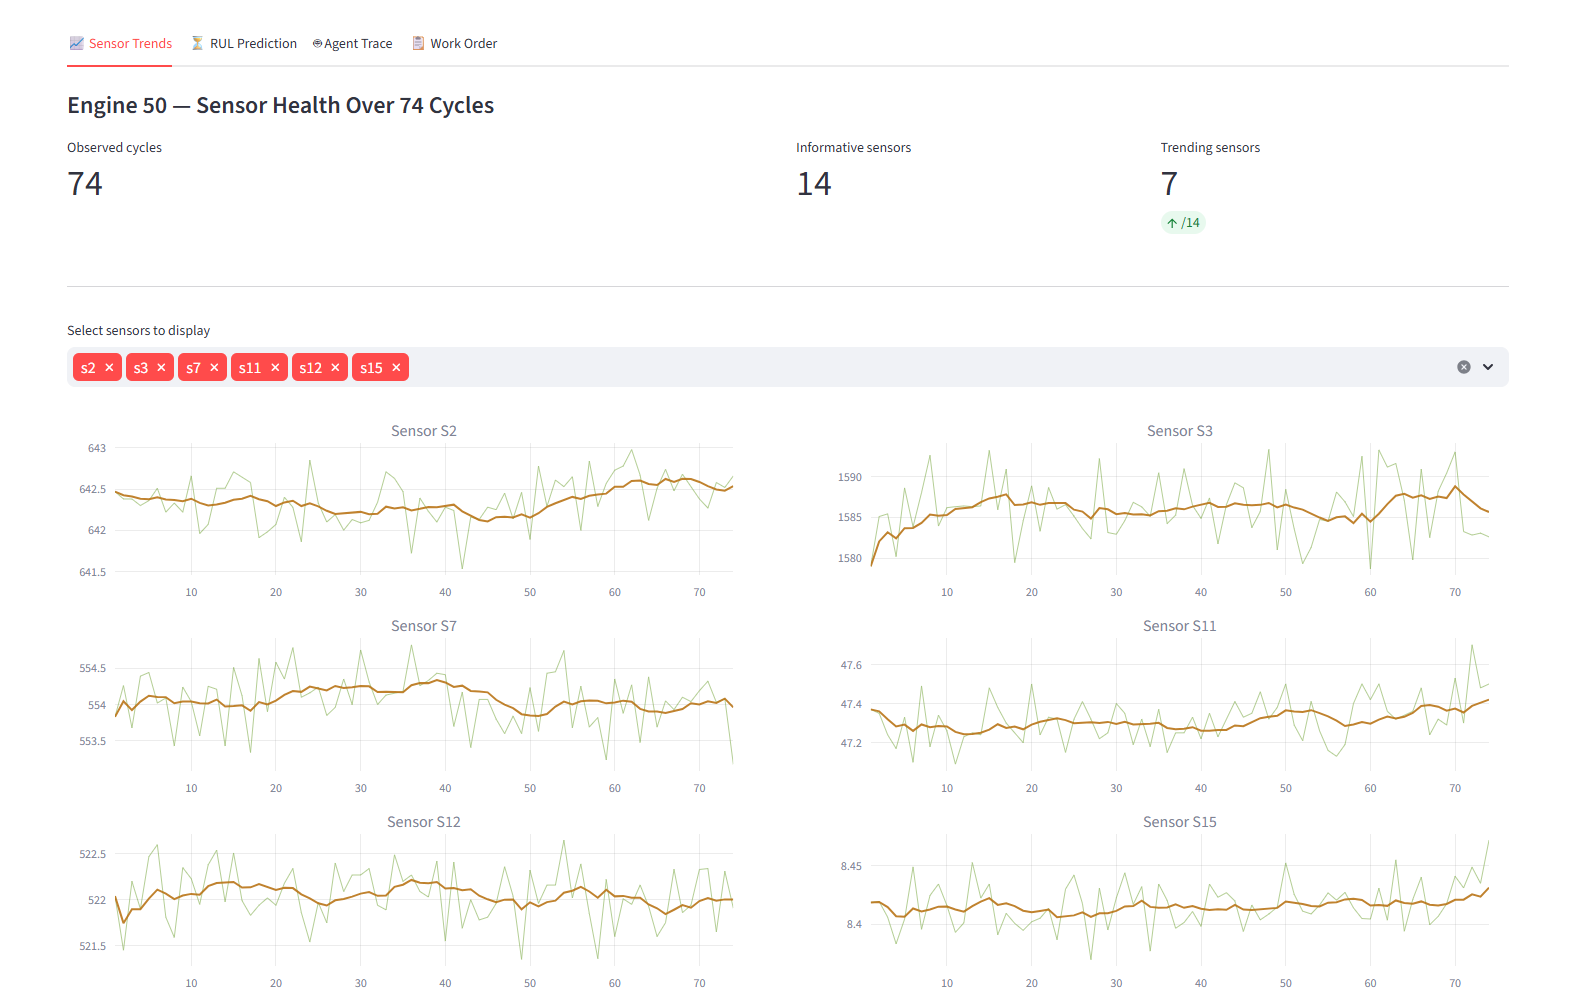
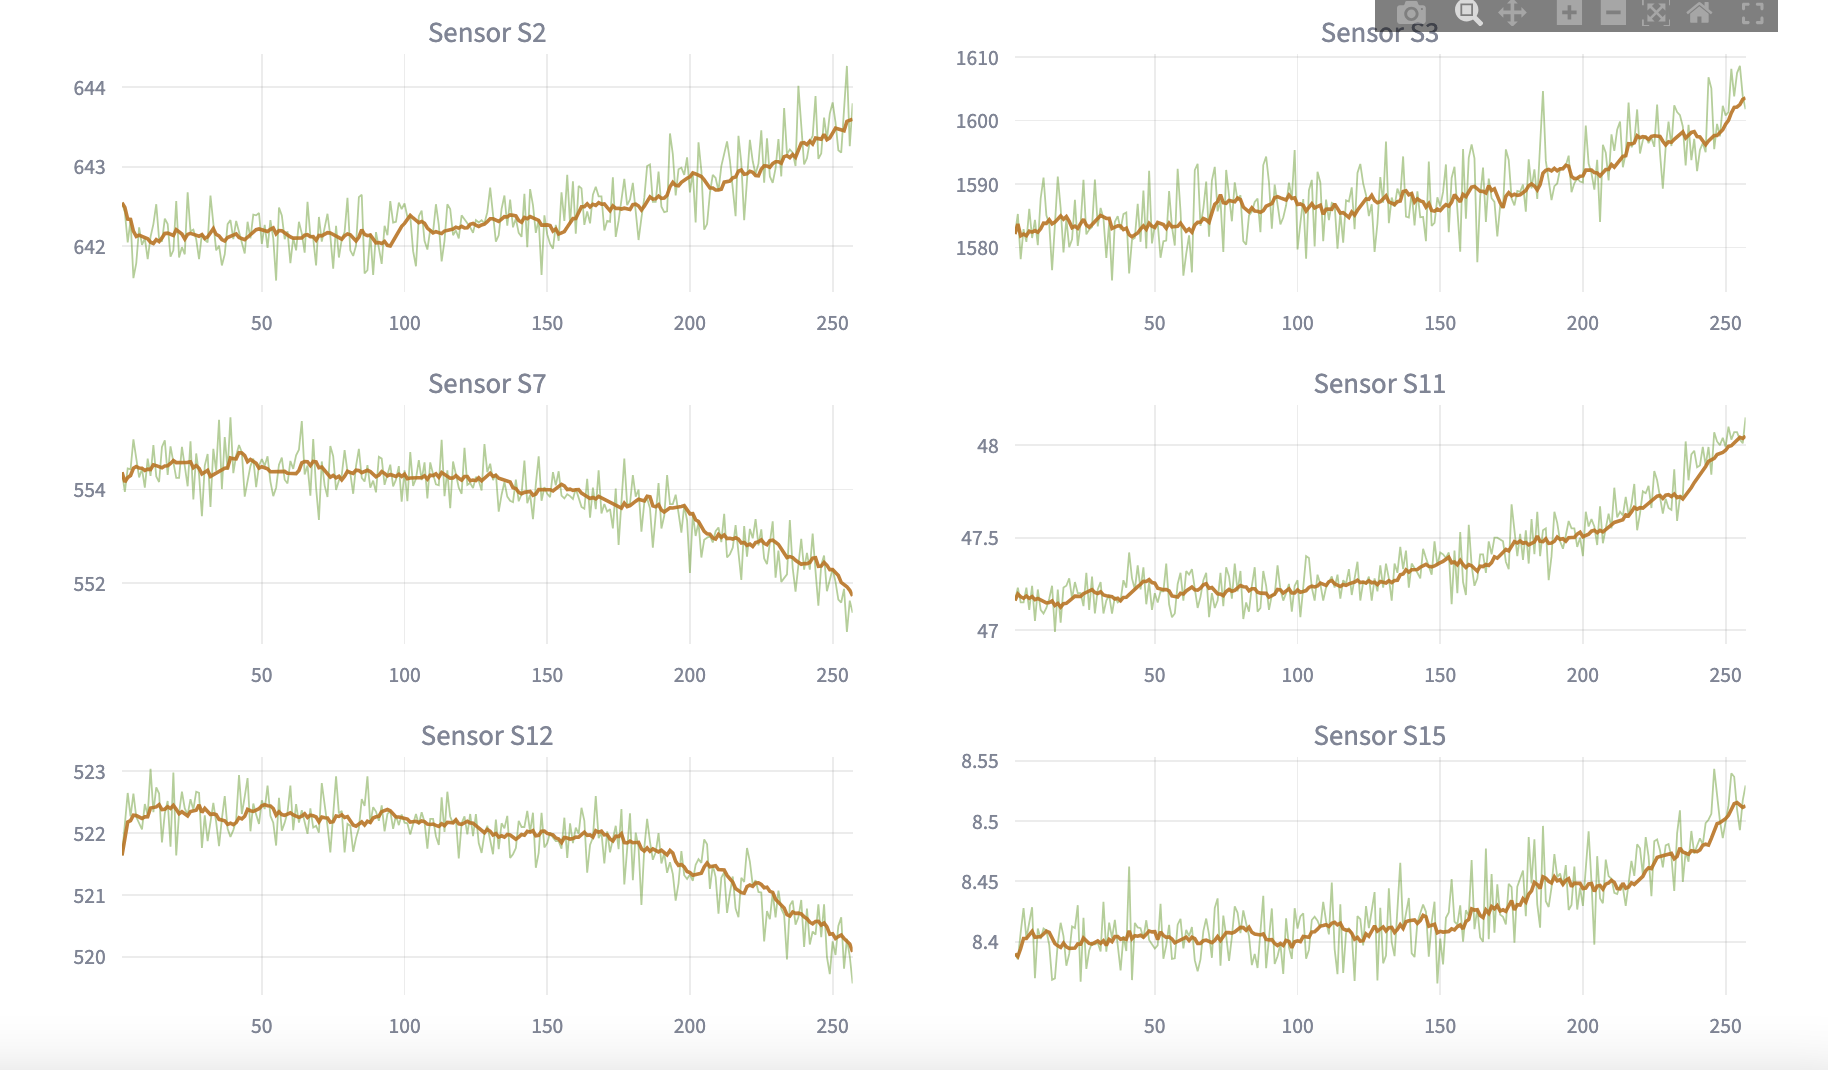
New screenshots on held-out engine, fix app labels

diff --git a/app.py b/app.py
@@ -326,7 +326,7 @@ with tab2:
             st.metric("Predicted RUL", f"{last_pred:.1f} cycles")
         st.metric("Engine observed life", f"{int(cycles[-1])} cycles")
         margin = last_pred * 0.15
-        st.metric("Confidence interval", f"[{max(0,last_pred-margin):.1f} — {last_pred+margin:.1f}]")
+        st.metric("Expected range (±15%)", f"[{max(0,last_pred-margin):.1f} – {last_pred+margin:.1f}]")
 
     # Prediction trend over engine life
     st.markdown("---")
@@ -385,7 +385,7 @@ with tab3:
             "This calls the Ollama LLM for failure diagnosis and work order generation."
         )
         st.markdown("""
-**Agent pipeline (4 nodes):**
+**Agent pipeline (5 nodes up to 4 run per engine):**
 ```
 [sensor_analyst] → [rul_estimator] → conditional route →
     if degraded: [failure_diagnosis] → [workorder_generator]
